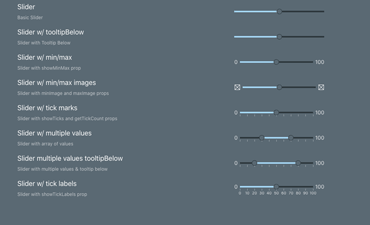
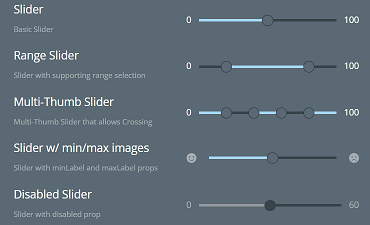
Updated component thumbnails, and tweaked a few style issues

diff --git a/src/frontend-samples/component-gallery/tabs-sample/Tabs.tsx b/src/frontend-samples/component-gallery/tabs-sample/Tabs.tsx
@@ -23,7 +23,7 @@ export default class TabsList extends React.Component<{}>  {
       createComponentExample("Green Horizontal Tabs", undefined, <HorizontalTabs color={"green"} focusActivationMode="auto" labels={["Tab 1", "Tab 2", "Tab 3"]} />),
       createComponentExample("Borderless Tabs", undefined, <HorizontalTabs type={"borderless"} focusActivationMode="auto" labels={["Tab 1", "Tab 2", "Tab 3"]} />),
       createComponentExample("Pill Tabs", undefined, <HorizontalTabs type={"pill"} focusActivationMode="auto" labels={[<Tab key="0" startIcon={<SvgStar />} />, <Tab key="1" startIcon={<SvgStar />} />, <Tab key="2" startIcon={<SvgStar />} />]} />),
-      createComponentExample("Sublabel and Icon Tabs", undefined, <HorizontalTabs type={"borderless"} focusActivationMode="auto" labels={[<Tab key="0" label="Item0" startIcon={<SvgStar />} sublabel="Sublabel0" />, <Tab key="1" label="Item1" startIcon={<SvgStar />} sublabel="Sublabel1" />, <Tab key="2" disabled label="Item2" startIcon={<SvgStar />} sublabel="Sublabel2" />]} />),
+      createComponentExample("Sublabel and Icon Tabs", undefined, <HorizontalTabs type={"borderless"} focusActivationMode="auto" labels={[<Tab key="0" label="Item0" startIcon={<SvgStar />} sublabel="Sublabel0" />, <Tab key="1" label="Item1" startIcon={<SvgStar />} sublabel="Sublabel1" />]} />),
       createComponentExample("Vertical Tabs", undefined, <VerticalTabs labels={["Tab 1", "Tab 2", "Tab 3"]} />),
     ];
   }

diff --git a/src/frontend-samples/component-gallery/inputs-sample/Inputs.tsx b/src/frontend-samples/component-gallery/inputs-sample/Inputs.tsx
@@ -294,9 +294,6 @@ export default class InputsList extends React.Component<{}> {
             },
           ]}
           placeholder="Placeholder text"
-          popoverProps={{
-            visible: true,
-          }}
           value={2}
         />,
       ),

diff --git a/src/frontend-samples/component-gallery/slider-sample/Slider.tsx b/src/frontend-samples/component-gallery/slider-sample/Slider.tsx
@@ -85,7 +85,6 @@ export default class SliderList extends React.Component<{}> {
           style={{ width: "100%" }}
           max={60}
           min={0}
-          setFocus
           thumbMode="inhibit-crossing"
           tickLabels={
             [

diff --git a/src/common/UIComponents/index.scss b/src/common/UIComponents/index.scss
@@ -46,4 +46,12 @@
     }
   }
 
+
+  .iui-checkbox .iui-checkbox-checkmark::after, .iui-checkbox .iui-radio-dot::after {
+    display: none
+  }
+
+  .iui-tabs-wrapper {
+    width: 100%;
+  }
 }
